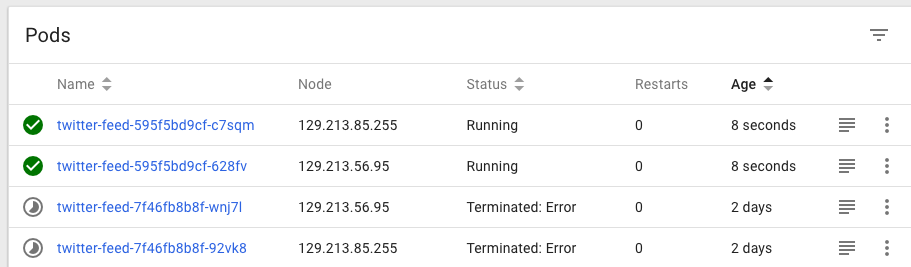
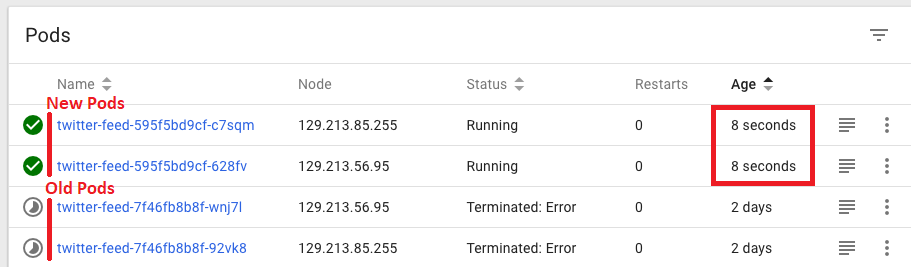
clarifications to instructions

Changed region(s): [[0.7684, 0.3895, 0.9221, 0.7191], [0.0307, 0.3596, 0.1537, 0.6592], [0.0307, 0.6592, 0.1229, 0.9888]]

diff --git a/workshops/container-native-development/LabGuide300.md b/workshops/container-native-development/LabGuide300.md
@@ -71,7 +71,7 @@ During this lab, you will take on the **Lead Developer Persona** and work on fix
 
   ![](images/300/7.png)
 
-- In a new browser tab, navigate to the **Kubernetes dashboard** at [**Kubernetes dashboard**](http://localhost:8001/api/v1/namespaces/kube-system/services/http:kubernetes-dashboard:/proxy/). Click on **Overview** in the left side navigation menu. You should see four twitter-feed pods -- the two that we deployed in the previous lab, running the old code version, and two new ones running the new code version.
+- In a new browser tab, navigate to the **Kubernetes dashboard** at [**Kubernetes dashboard**](http://localhost:8001/api/v1/namespaces/kube-system/services/http:kubernetes-dashboard:/proxy/). Click on **Overview** in the left side navigation menu. You should see two new twitter-feed pods with a very small `Age` (a few seconds to a few minutes, depending on how much time has elapsed between the end of the Workflow execution and now). If you get to the dashboard very quickly after the Workflow finishes, you may see the two old pods from the previous lab being terminated, as in the screenshot below. The old pods will be removed from the UI within a minute of the new pods being started.
 
   ![](images/300/8.png)
 

diff --git a/workshops/container-native-development/LabGuide500.md b/workshops/container-native-development/LabGuide500.md
@@ -114,7 +114,7 @@ During this lab, you will take on the **Lead Developer Persona** and extend your
   kubectl patch deploy --namespace kube-system tiller-deploy -p '{"spec":{"template":{"spec":{"serviceAccount":"tiller"}}}}'      
   helm init --service-account tiller --upgrade
   ```
-- Install the **Fn chart** by running:
+- Install the **Fn chart** by running the following command. **NOTE** _DO NOT_ change the name of the release, `my-release`. This name becomes part of the Kubernetes service name, which is used for DNS routing. If the name is changed, the product catalog application will not be able to communicate with the deployed function.
 
   `helm install --name my-release fn`
 

diff --git a/workshops/container-native-development/LabGuide500-Linux.md b/workshops/container-native-development/LabGuide500-Linux.md
@@ -152,7 +152,7 @@ cd ~ && git clone https://github.com/derekoneil/image-resize.git && cd image-res
   helm init --service-account tiller --upgrade
   ```
 
-- Install the **Fn chart** by running:
+- Install the **Fn chart** by running the following command. **NOTE** _DO NOT_ change the name of the release, `my-release`. This name becomes part of the Kubernetes service name, which is used for DNS routing. If the name is changed, the product catalog application will not be able to communicate with the deployed function.
 
   `../helm install --name my-release fn`
 
